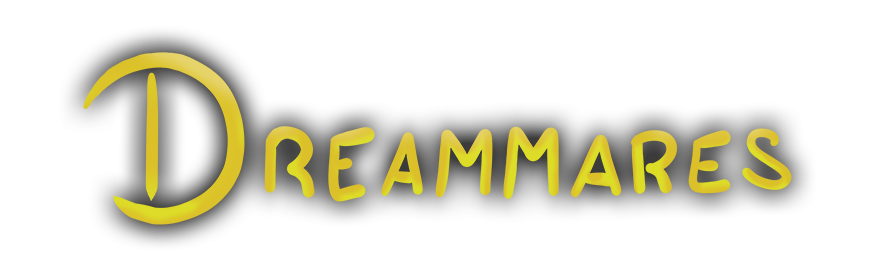
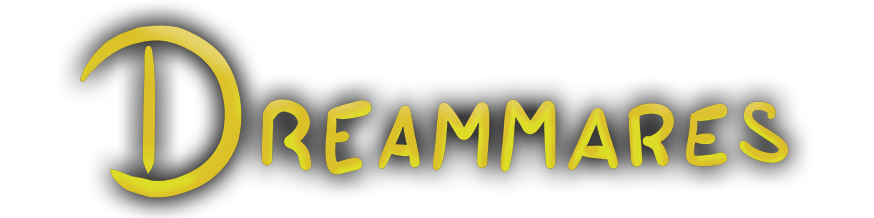
Game is ending correctly when the end-portal is hit

diff --git a/html/end.html b/html/end.html
@@ -10,9 +10,9 @@
 <body>
 <div id="end-background">
     <div class="container" id="end-container">
-        <img id="bixi" src="../assets/bixi.svg" alt="Bixi" width="200">
-        <img src="../assets/start-end/font.png" alt="Dreammares" width="400">
-        <svg height="100" xmlns="http://www.w3.org/2000/svg" xmlns:xlink="http://www.w3.org/1999/xlink" x="0px" y="0px" viewBox="0 0 584 111" xml:space="preserve">
+        <img id="bixi" src="../assets/start-end/bixi.svg" alt="Bixi" width="200">
+        <img src="../assets/start-end/font.png" alt="Dreammares" width="500">
+        <svg height="140" xmlns="http://www.w3.org/2000/svg" xmlns:xlink="http://www.w3.org/1999/xlink" x="0px" y="0px" viewBox="0 0 584 111" xml:space="preserve">
             <style type="text/css">
                 .st-light{fill:url(#light-gradient);}
                 .st-dark{fill:#27045E;}

diff --git a/script/modules/Level.js b/script/modules/Level.js
@@ -15,7 +15,7 @@ class Level {
         this.ctx = ctx;
         this.player = player;
 
-        this.worldObjects = this.createLevel(worldMatrixNumbers, player.end)
+        this.worldObjects = this.createLevel(worldMatrixNumbers, () => {player.end()});
         CONFIG.lastColumn = this.worldObjects.length - 1;
     }
 
